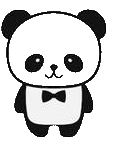
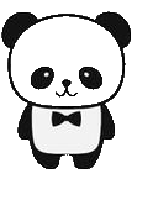
fix: styles

diff --git a/src/components/games/AudioСall/components/AudioCallGame/index.jsx b/src/components/games/AudioСall/components/AudioCallGame/index.jsx
@@ -14,6 +14,11 @@ import { Button } from 'components/button';
 import PropTypes from 'prop-types';
 import { StyledLoader } from '../../../../loader';
 
+const audioCorrectAnswer = new Audio('audio/correct.mp3');
+const audioWrongAnswer = new Audio('audio/wrong.mp3');
+const audioNoAnswer = new Audio('audio/noAnswer.wav');
+const baseUrl = 'https://rslangbe-team105.herokuapp.com/';
+
 export default function AudioСall({ level }) {
   const [error, setError] = useState(null);
   const [isLoaded, setIsLoaded] = useState(false);
@@ -26,11 +31,6 @@ export default function AudioСall({ level }) {
   const [IsGameOver, setGameOver] = useState(false);
   const [srcImage, setSrcImage] = useState('');
   const [isSoundPlay, setIsSoundPlay] = useState(true);
-
-  const audioCorrectAnswer = new Audio('audio/correct.mp3');
-  const audioWrongAnswer = new Audio('audio/wrong.mp3');
-  const audioNoAnswer = new Audio('audio/noAnswer.wav');
-  const baseUrl = 'https://rslangbe-team105.herokuapp.com/';
 
   const fetchDataLink = (level, page) =>
     `${baseUrl}words?group=${level}&page=${page}`;

diff --git a/src/components/games/AudioСall/index.jsx b/src/components/games/AudioСall/index.jsx
@@ -47,7 +47,7 @@ export default function AudioСallStartPage() {
             }}
           >
             <StyledTabHeader>
-              <img src={img[level]} alt="img" />
+              <img src={img[level]} alt="img" className="characterImg" />
               <p>Выберите уровень сложности игры </p>
               {skillLevels[level]}
             </StyledTabHeader>

diff --git a/src/components/games/AudioСall/components/AudioCallGame/styles.css b/src/components/games/AudioСall/components/AudioCallGame/styles.css
@@ -47,3 +47,7 @@
   color: var(--light);
   outline: none;
 }
+
+.characterImg {
+  height: 150px;
+}
